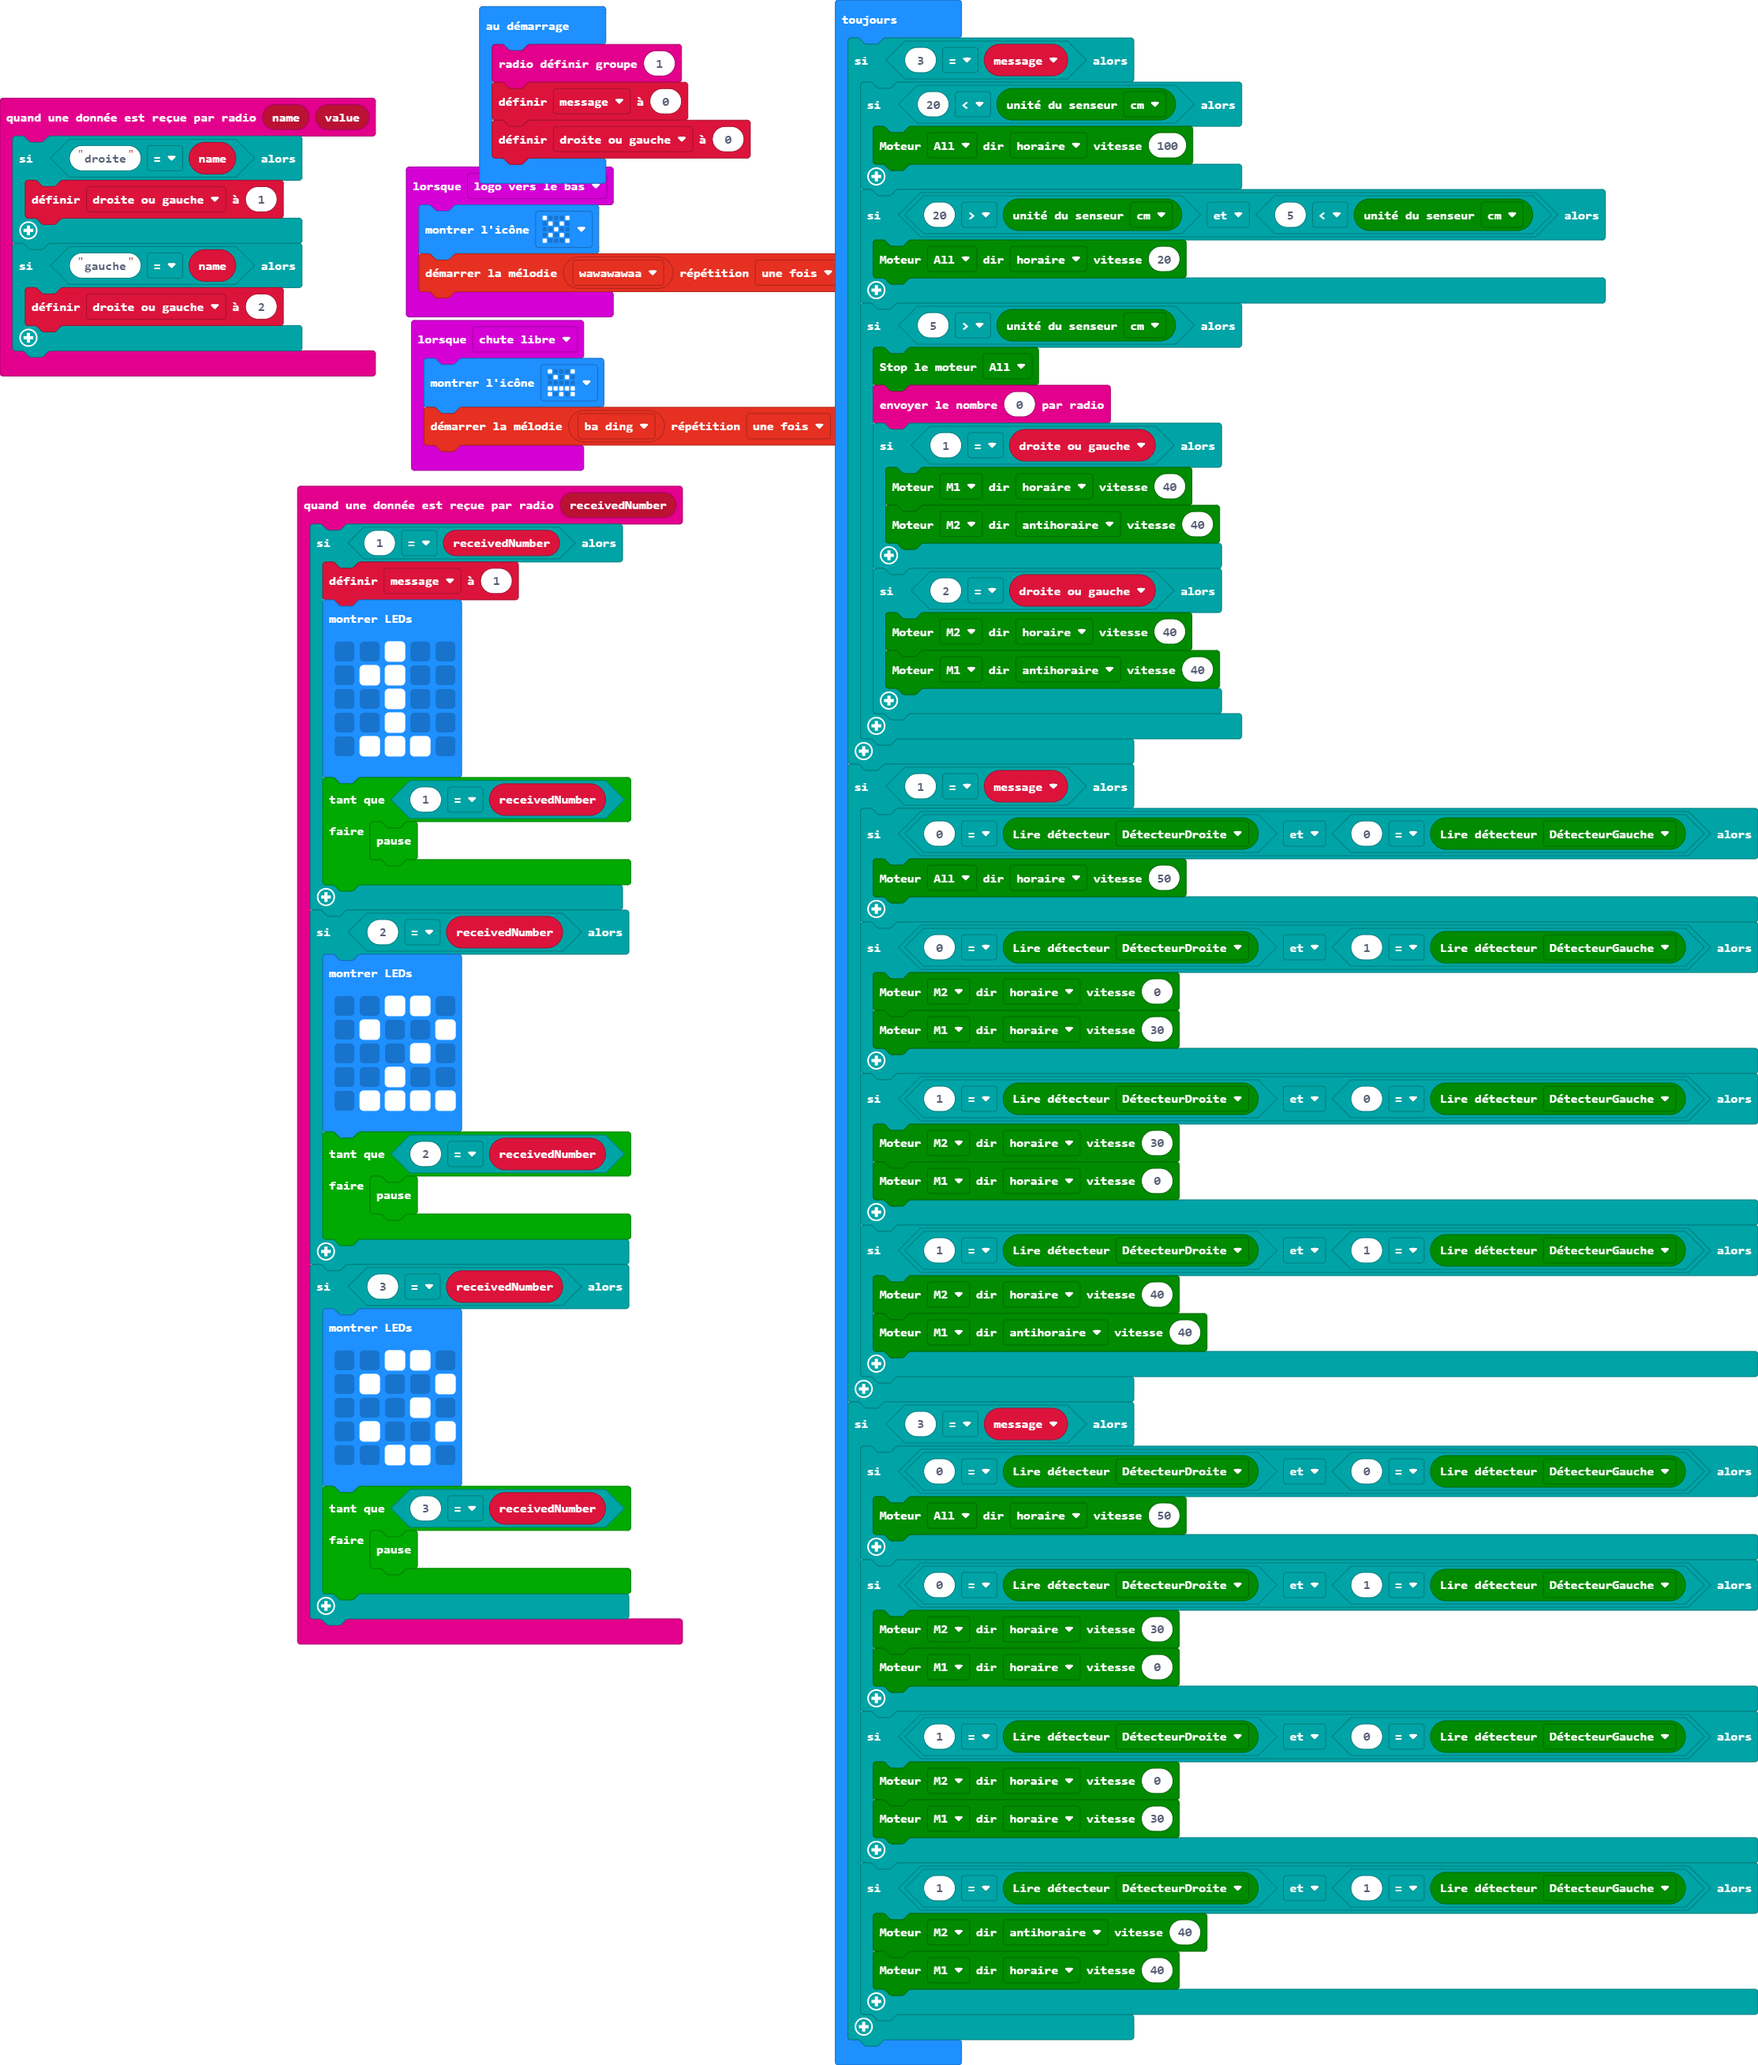
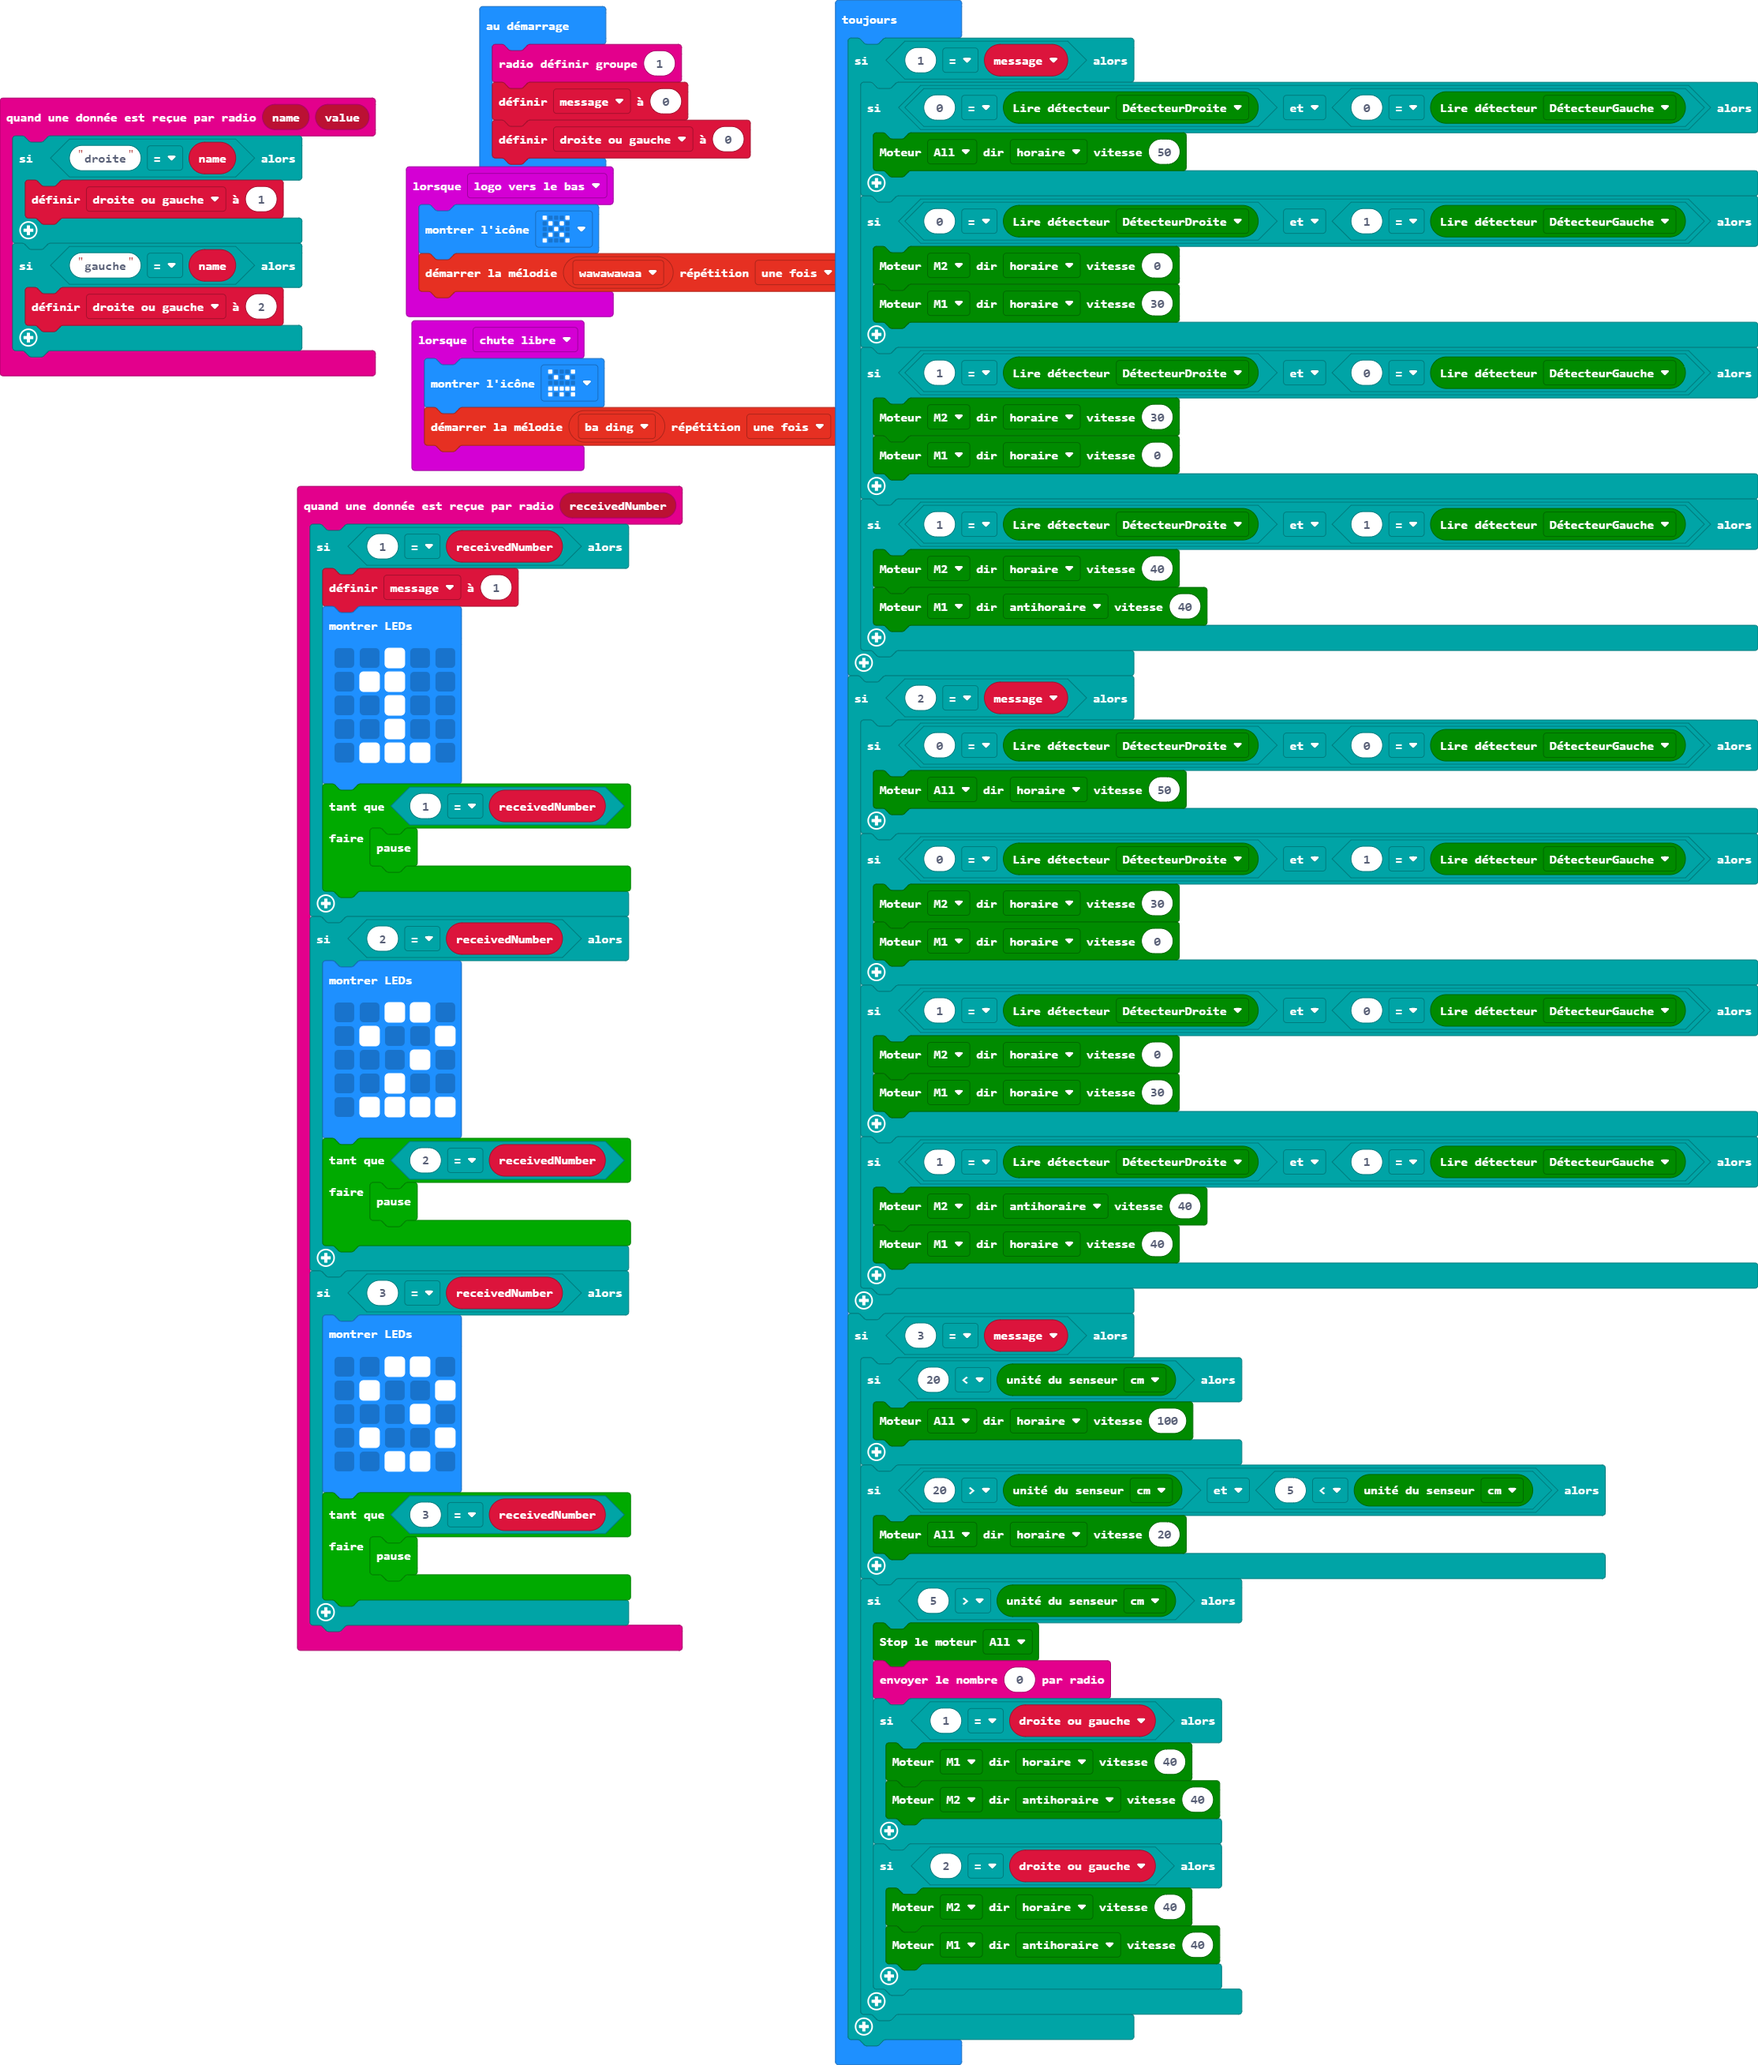
Mise à jour main.blocks, main.ts

diff --git a/main.ts b/main.ts
@@ -59,6 +59,40 @@ radio.setGroup(1)
 message = 0
 droite_ou_gauche = 0
 basic.forever(function () {
+    if (1 == message) {
+        if (0 == maqueen.readPatrol(maqueen.Patrol.PatrolRight) && 0 == maqueen.readPatrol(maqueen.Patrol.PatrolLeft)) {
+            maqueen.motorRun(maqueen.Motors.All, maqueen.Dir.CW, 50)
+        }
+        if (0 == maqueen.readPatrol(maqueen.Patrol.PatrolRight) && 1 == maqueen.readPatrol(maqueen.Patrol.PatrolLeft)) {
+            maqueen.motorRun(maqueen.Motors.M2, maqueen.Dir.CW, 0)
+            maqueen.motorRun(maqueen.Motors.M1, maqueen.Dir.CW, 30)
+        }
+        if (1 == maqueen.readPatrol(maqueen.Patrol.PatrolRight) && 0 == maqueen.readPatrol(maqueen.Patrol.PatrolLeft)) {
+            maqueen.motorRun(maqueen.Motors.M2, maqueen.Dir.CW, 30)
+            maqueen.motorRun(maqueen.Motors.M1, maqueen.Dir.CW, 0)
+        }
+        if (1 == maqueen.readPatrol(maqueen.Patrol.PatrolRight) && 1 == maqueen.readPatrol(maqueen.Patrol.PatrolLeft)) {
+            maqueen.motorRun(maqueen.Motors.M2, maqueen.Dir.CW, 40)
+            maqueen.motorRun(maqueen.Motors.M1, maqueen.Dir.CCW, 40)
+        }
+    }
+    if (2 == message) {
+        if (0 == maqueen.readPatrol(maqueen.Patrol.PatrolRight) && 0 == maqueen.readPatrol(maqueen.Patrol.PatrolLeft)) {
+            maqueen.motorRun(maqueen.Motors.All, maqueen.Dir.CW, 50)
+        }
+        if (0 == maqueen.readPatrol(maqueen.Patrol.PatrolRight) && 1 == maqueen.readPatrol(maqueen.Patrol.PatrolLeft)) {
+            maqueen.motorRun(maqueen.Motors.M2, maqueen.Dir.CW, 30)
+            maqueen.motorRun(maqueen.Motors.M1, maqueen.Dir.CW, 0)
+        }
+        if (1 == maqueen.readPatrol(maqueen.Patrol.PatrolRight) && 0 == maqueen.readPatrol(maqueen.Patrol.PatrolLeft)) {
+            maqueen.motorRun(maqueen.Motors.M2, maqueen.Dir.CW, 0)
+            maqueen.motorRun(maqueen.Motors.M1, maqueen.Dir.CW, 30)
+        }
+        if (1 == maqueen.readPatrol(maqueen.Patrol.PatrolRight) && 1 == maqueen.readPatrol(maqueen.Patrol.PatrolLeft)) {
+            maqueen.motorRun(maqueen.Motors.M2, maqueen.Dir.CCW, 40)
+            maqueen.motorRun(maqueen.Motors.M1, maqueen.Dir.CW, 40)
+        }
+    }
     if (3 == message) {
         if (20 < maqueen.Ultrasonic(PingUnit.Centimeters)) {
             maqueen.motorRun(maqueen.Motors.All, maqueen.Dir.CW, 100)
@@ -77,40 +111,6 @@ basic.forever(function () {
                 maqueen.motorRun(maqueen.Motors.M2, maqueen.Dir.CW, 40)
                 maqueen.motorRun(maqueen.Motors.M1, maqueen.Dir.CCW, 40)
             }
-        }
-    }
-    if (1 == message) {
-        if (0 == maqueen.readPatrol(maqueen.Patrol.PatrolRight) && 0 == maqueen.readPatrol(maqueen.Patrol.PatrolLeft)) {
-            maqueen.motorRun(maqueen.Motors.All, maqueen.Dir.CW, 50)
-        }
-        if (0 == maqueen.readPatrol(maqueen.Patrol.PatrolRight) && 1 == maqueen.readPatrol(maqueen.Patrol.PatrolLeft)) {
-            maqueen.motorRun(maqueen.Motors.M2, maqueen.Dir.CW, 0)
-            maqueen.motorRun(maqueen.Motors.M1, maqueen.Dir.CW, 30)
-        }
-        if (1 == maqueen.readPatrol(maqueen.Patrol.PatrolRight) && 0 == maqueen.readPatrol(maqueen.Patrol.PatrolLeft)) {
-            maqueen.motorRun(maqueen.Motors.M2, maqueen.Dir.CW, 30)
-            maqueen.motorRun(maqueen.Motors.M1, maqueen.Dir.CW, 0)
-        }
-        if (1 == maqueen.readPatrol(maqueen.Patrol.PatrolRight) && 1 == maqueen.readPatrol(maqueen.Patrol.PatrolLeft)) {
-            maqueen.motorRun(maqueen.Motors.M2, maqueen.Dir.CW, 40)
-            maqueen.motorRun(maqueen.Motors.M1, maqueen.Dir.CCW, 40)
-        }
-    }
-    if (3 == message) {
-        if (0 == maqueen.readPatrol(maqueen.Patrol.PatrolRight) && 0 == maqueen.readPatrol(maqueen.Patrol.PatrolLeft)) {
-            maqueen.motorRun(maqueen.Motors.All, maqueen.Dir.CW, 50)
-        }
-        if (0 == maqueen.readPatrol(maqueen.Patrol.PatrolRight) && 1 == maqueen.readPatrol(maqueen.Patrol.PatrolLeft)) {
-            maqueen.motorRun(maqueen.Motors.M2, maqueen.Dir.CW, 30)
-            maqueen.motorRun(maqueen.Motors.M1, maqueen.Dir.CW, 0)
-        }
-        if (1 == maqueen.readPatrol(maqueen.Patrol.PatrolRight) && 0 == maqueen.readPatrol(maqueen.Patrol.PatrolLeft)) {
-            maqueen.motorRun(maqueen.Motors.M2, maqueen.Dir.CW, 0)
-            maqueen.motorRun(maqueen.Motors.M1, maqueen.Dir.CW, 30)
-        }
-        if (1 == maqueen.readPatrol(maqueen.Patrol.PatrolRight) && 1 == maqueen.readPatrol(maqueen.Patrol.PatrolLeft)) {
-            maqueen.motorRun(maqueen.Motors.M2, maqueen.Dir.CCW, 40)
-            maqueen.motorRun(maqueen.Motors.M1, maqueen.Dir.CW, 40)
         }
     }
 })
